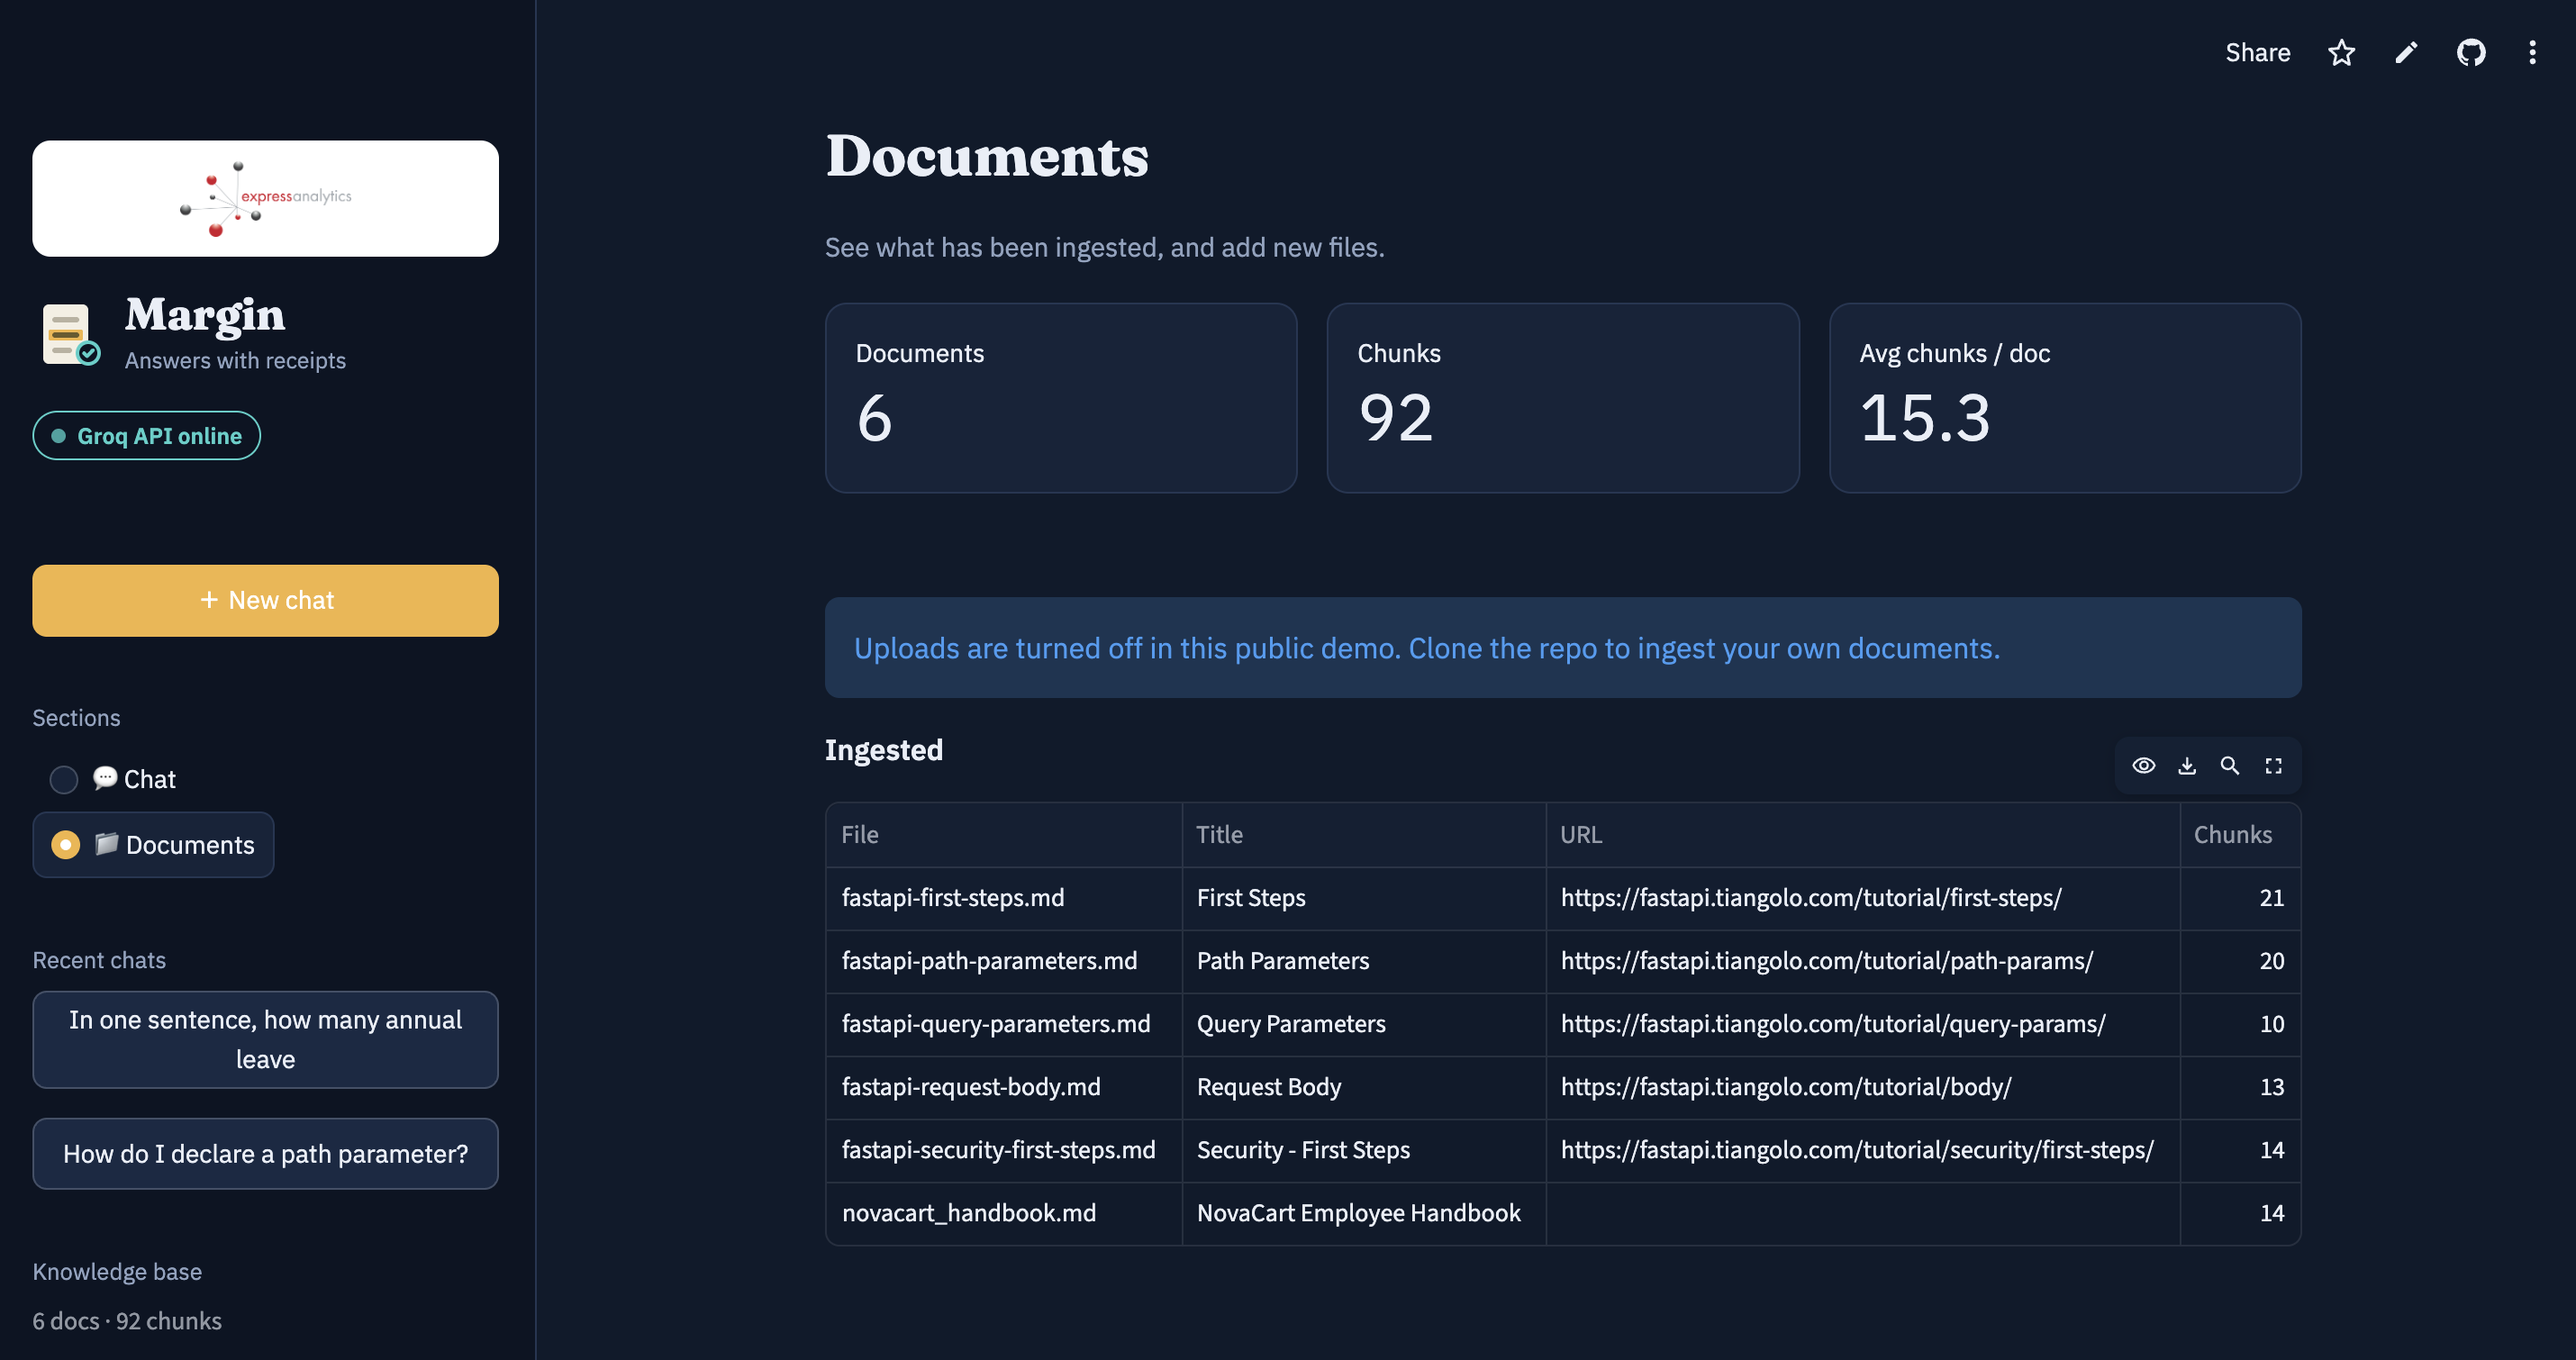
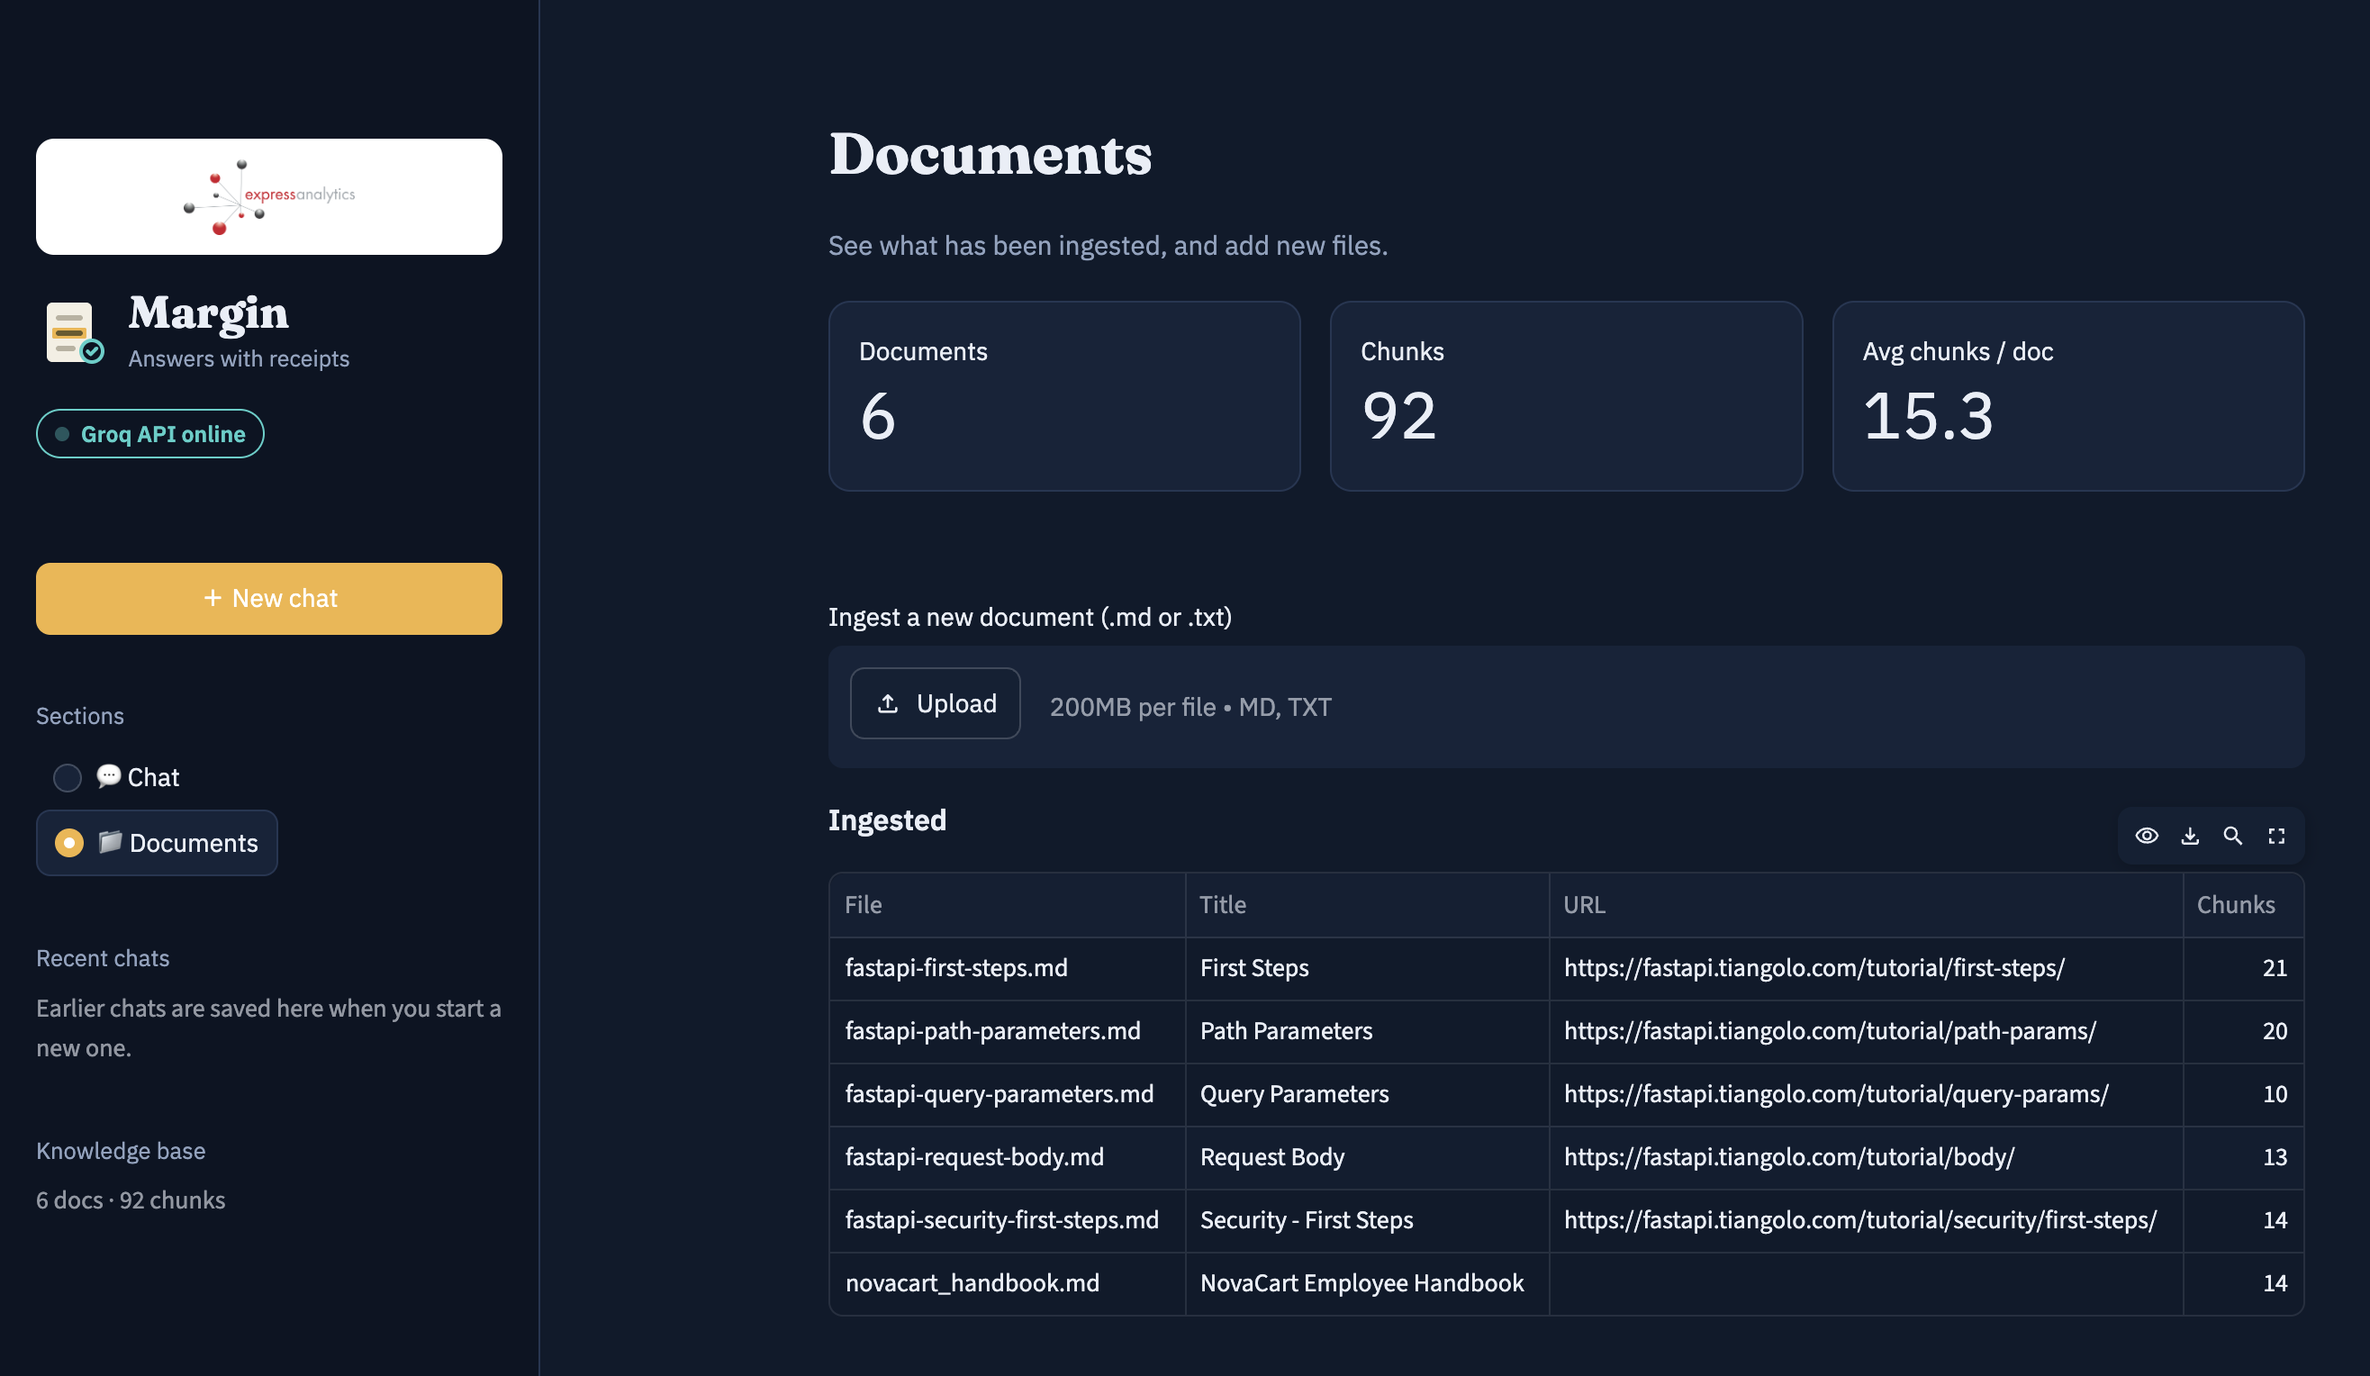
Add web search screenshot and update README

diff --git a/README.md b/README.md
@@ -1,12 +1,12 @@
 # Self-Correcting RAG Assistant
 
-A question-answering assistant that **checks its own work**. It retrieves chunks from your documents, grades whether they are relevant, rewrites the query and tries again when they are not, and says *"I don't know"* instead of guessing. After writing an answer it verifies that every claim is backed by the sources.
+A question-answering assistant that **checks its own work**. It retrieves chunks from your documents, grades whether they are relevant, rewrites the query and tries again when they are not, then falls back to web search, and says *"I don't know"* instead of guessing. After writing an answer it verifies that every claim is backed by the sources.
 
 **Live demo:** https://self-correcting-rag-assistant-un9jztummyeybwrlgnvm59.streamlit.app/
 
-> The demo is a public instance: uploads are disabled and each session is limited to a few questions. It may take about a minute to wake up after being idle.
+> The demo is a public instance: uploads are disabled and each session is limited to a few questions. It may take about a minute to wake up after being idle. Questions the documents cannot answer are sent to web search.
 
-Built with **LangGraph**, **FastAPI**, **ChromaDB**, **Groq** and **Streamlit**.
+Built with **LangGraph**, **FastAPI**, **ChromaDB**, **Groq**, **Tavily** and **Streamlit**.
 
 ## Screenshots
 
@@ -18,14 +18,15 @@ Built with **LangGraph**, **FastAPI**, **ChromaDB**, **Groq** and **Streamlit**.
 |---|---|
 | ![A follow-up question resolved from chat history](docs/memory.png) | ![No answer in the documents](docs/fallback.png) |
 
-**Documents page**
-
-![Ingested documents](docs/documents.png)
+| Web search fallback | Documents page |
+|---|---|
+| ![Answer from web search after the documents had nothing](docs/websearch.png) | ![Ingested documents](docs/documents.png) |
 
 ## What it does
 
 - **Ingestion:** loads `.md` / `.txt` files, splits them into heading-aware and code-aware chunks, embeds them and stores them in ChromaDB. Re-ingesting a file replaces its old chunks, so there are no duplicates.
-- **Self-correcting workflow (LangGraph):** query analysis → retrieval → relevance grading → generation. If no chunk is relevant, the query is rewritten and retrieval is repeated, up to a retry limit. After that it falls back to web search (optional) or to an honest "I don't know".
+- **Self-correcting workflow (LangGraph):** query analysis → retrieval → relevance grading → generation. If no chunk is relevant, the query is rewritten and retrieval is repeated, up to a retry limit. After that it falls back to web search, or to an honest "I don't know" when web search is off or finds nothing.
+- **Web search fallback:** when the documents do not cover a question, Tavily results are used as context and the answer is clearly marked `answered_from_web`, with the web links as sources.
 - **Hallucination check:** a grounding judge verifies the answer against the retrieved chunks. Unsupported answers are regenerated, otherwise flagged as `unverified`.
 - **Conversation memory:** follow-up questions ("Can I carry them over to next year?") are rewritten into standalone questions using the session history.
 - **REST API (FastAPI):** `POST /query`, `POST /ingest`, `GET /documents`, `POST /feedback`.
@@ -99,7 +100,7 @@ ui.py             Streamlit UI
 
 ## Setup
 
-**Requirements:** Python 3.11 and a free [Groq API key](https://console.groq.com/).
+**Requirements:** Python 3.11 and a free [Groq API key](https://console.groq.com/). A free [Tavily API key](https://tavily.com/) is optional and enables web search.
 
 ```bash
 git clone https://github.com/rehaan052/Self-correcting-RAG-assistant.git
@@ -120,7 +121,7 @@ python -m scripts.check_setup
 | `GROQ_API_KEY` | none | Required. |
 | `GROQ_MODEL` | `openai/gpt-oss-120b` | Chat model. Kept in `.env` because hosted models get retired. |
 | `EMBEDDING_MODEL` | `sentence-transformers/all-MiniLM-L6-v2` | Runs locally on CPU. |
-| `TAVILY_API_KEY` | empty | Enables web-search fallback. |
+| `TAVILY_API_KEY` | empty | Enables the web-search fallback. |
 | `ENABLE_WEB_SEARCH` | `true` | Needs a Tavily key to do anything. |
 | `ENABLE_HALLUCINATION_CHECK` | `true` | Turns the grounding check on or off. |
 
@@ -213,7 +214,8 @@ These came from measuring the pipeline on the sample corpus, not from guessing.
 - **Hybrid retrieval, not vectors alone.** Dense embeddings rank short or code-heavy chunks too high and miss exact terms such as function and parameter names. BM25 (with a light stemmer and stop-word list, over section title plus text) catches exact words. The two ranked lists are merged with Reciprocal Rank Fusion, which needs no score normalisation.
 - **Multi-query retrieval.** The standalone question and the search query are both searched and all rankings are fused together, which makes follow-up questions work.
 - **Idempotent ingestion.** A file's old chunks are deleted before it is stored again, and chunk ids are content hashes, so re-ingesting never creates duplicates.
-- **One grading call per query.** All candidate chunks are graded in a single structured LLM call instead of one call per chunk. This keeps latency and rate-limit usage low.
+- **One grading call per query.** All candidate chunks are graded in a single structured LLM call instead of one call per chunk. This keeps latency and rate-limit usage low. The grader also returns a one-line reason per chunk, which is shown in the trace.
+- **Web search only after the documents fail.** The assistant tries the rewrite loop first and uses the web only when retries are used up, so questions the documents can answer never leave the knowledge base. Web answers are labelled and cite their links.
 - **Fail-open judges.** If the analyzer, grader or grounding judge fails (bad JSON, rate limit), the pipeline continues with safe defaults instead of returning a 500. Only generation itself is allowed to fail the request.
 - **Structured output with a fallback.** The helper tries `json_schema` first and falls back to function calling, because model support differs.
 - **Bounded loops.** Both the query-rewrite loop and the regeneration loop are capped, so the graph always terminates.
@@ -222,13 +224,13 @@ These came from measuring the pipeline on the sample corpus, not from guessing.
 
 ## Trade-offs and limitations
 
-- **Latency and cost.** A normal question takes about 4 LLM calls (analyze, grade, generate, grounding check). A fallback path can take about 6. This is the price of self-correction. On the free Groq tier, bursts of questions can hit rate limits.
+- **Latency and cost.** A normal question takes about 4 LLM calls (analyze, grade, generate, grounding check). A fallback path can take about 6, and a web answer adds a Tavily request. This is the price of self-correction. On the free Groq tier, bursts of questions can hit rate limits.
 - **Grading depends on retrieval.** The grader can only keep what retrieval finds. If the right chunk is not in the candidates, rewriting helps, but it is not a guarantee.
+- **Web results are less controlled.** Web answers come from search snippets, so their quality depends on the sources Tavily returns. They are always labelled `answered_from_web`.
 - **Small embedding model.** `all-MiniLM-L6-v2` is light and fast on CPU, but a larger model would retrieve better on bigger collections.
 - **BM25 index is rebuilt in memory.** It is rebuilt whenever the stored chunks change, which is fine for a small corpus but would need a real search index at scale.
 - **State is in memory.** Chat sessions live in the API process and are lost on restart. The vector store and feedback persist locally (`chroma_db/`, `feedback.db`).
-- **Public demo is ephemeral.** The hosted app rebuilds its vector store on a cold start, sleeps when idle, and enforces a soft per-session question limit.
-- **Web search is optional.** It needs a Tavily key. Without one, the assistant falls back to "I don't know".
+- **Public demo is ephemeral and shared.** The hosted app rebuilds its vector store on a cold start, sleeps when idle, enforces a soft per-session question limit, and shares one free Tavily quota across all visitors. If the quota runs out, it falls back to "I don't know".
 
 ## Possible improvements
 
